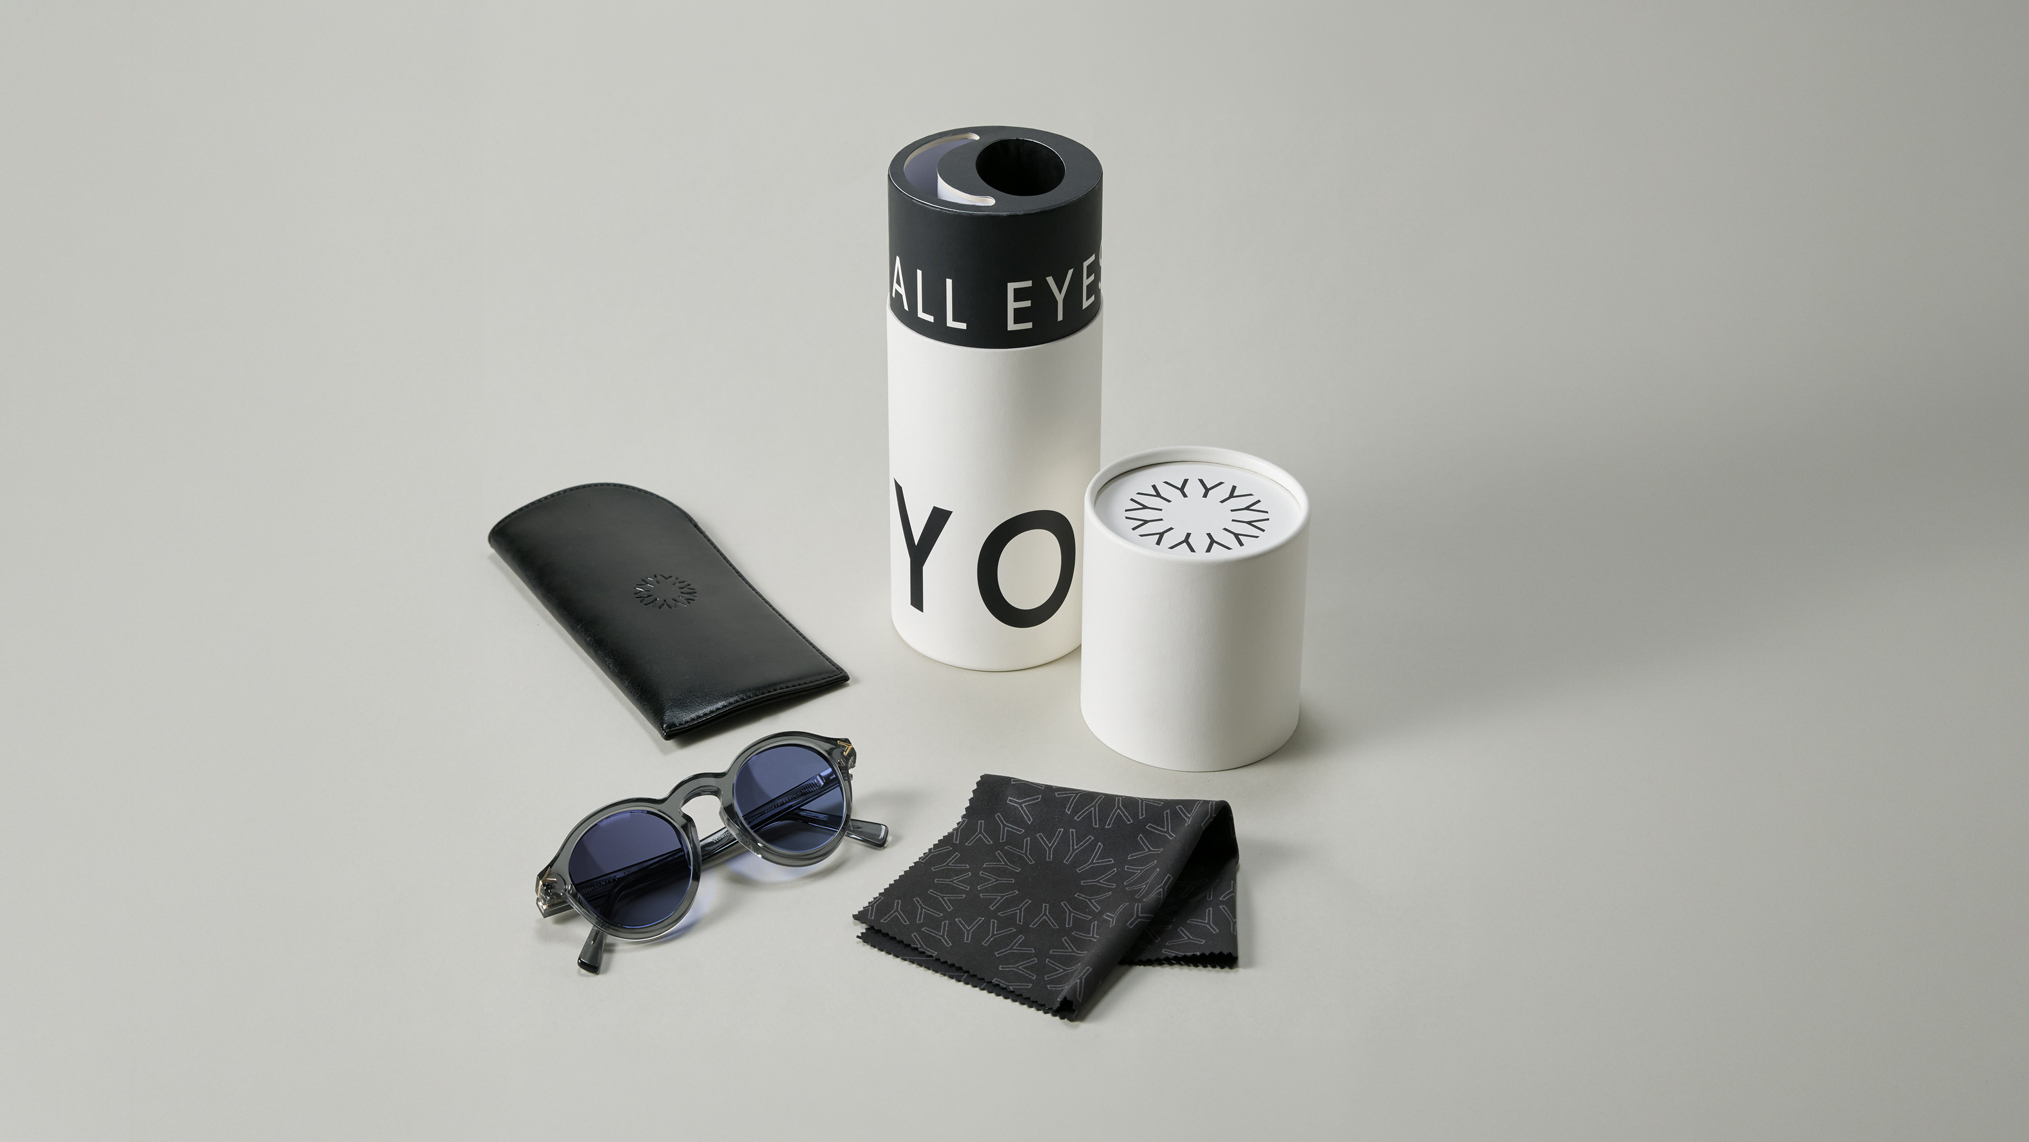
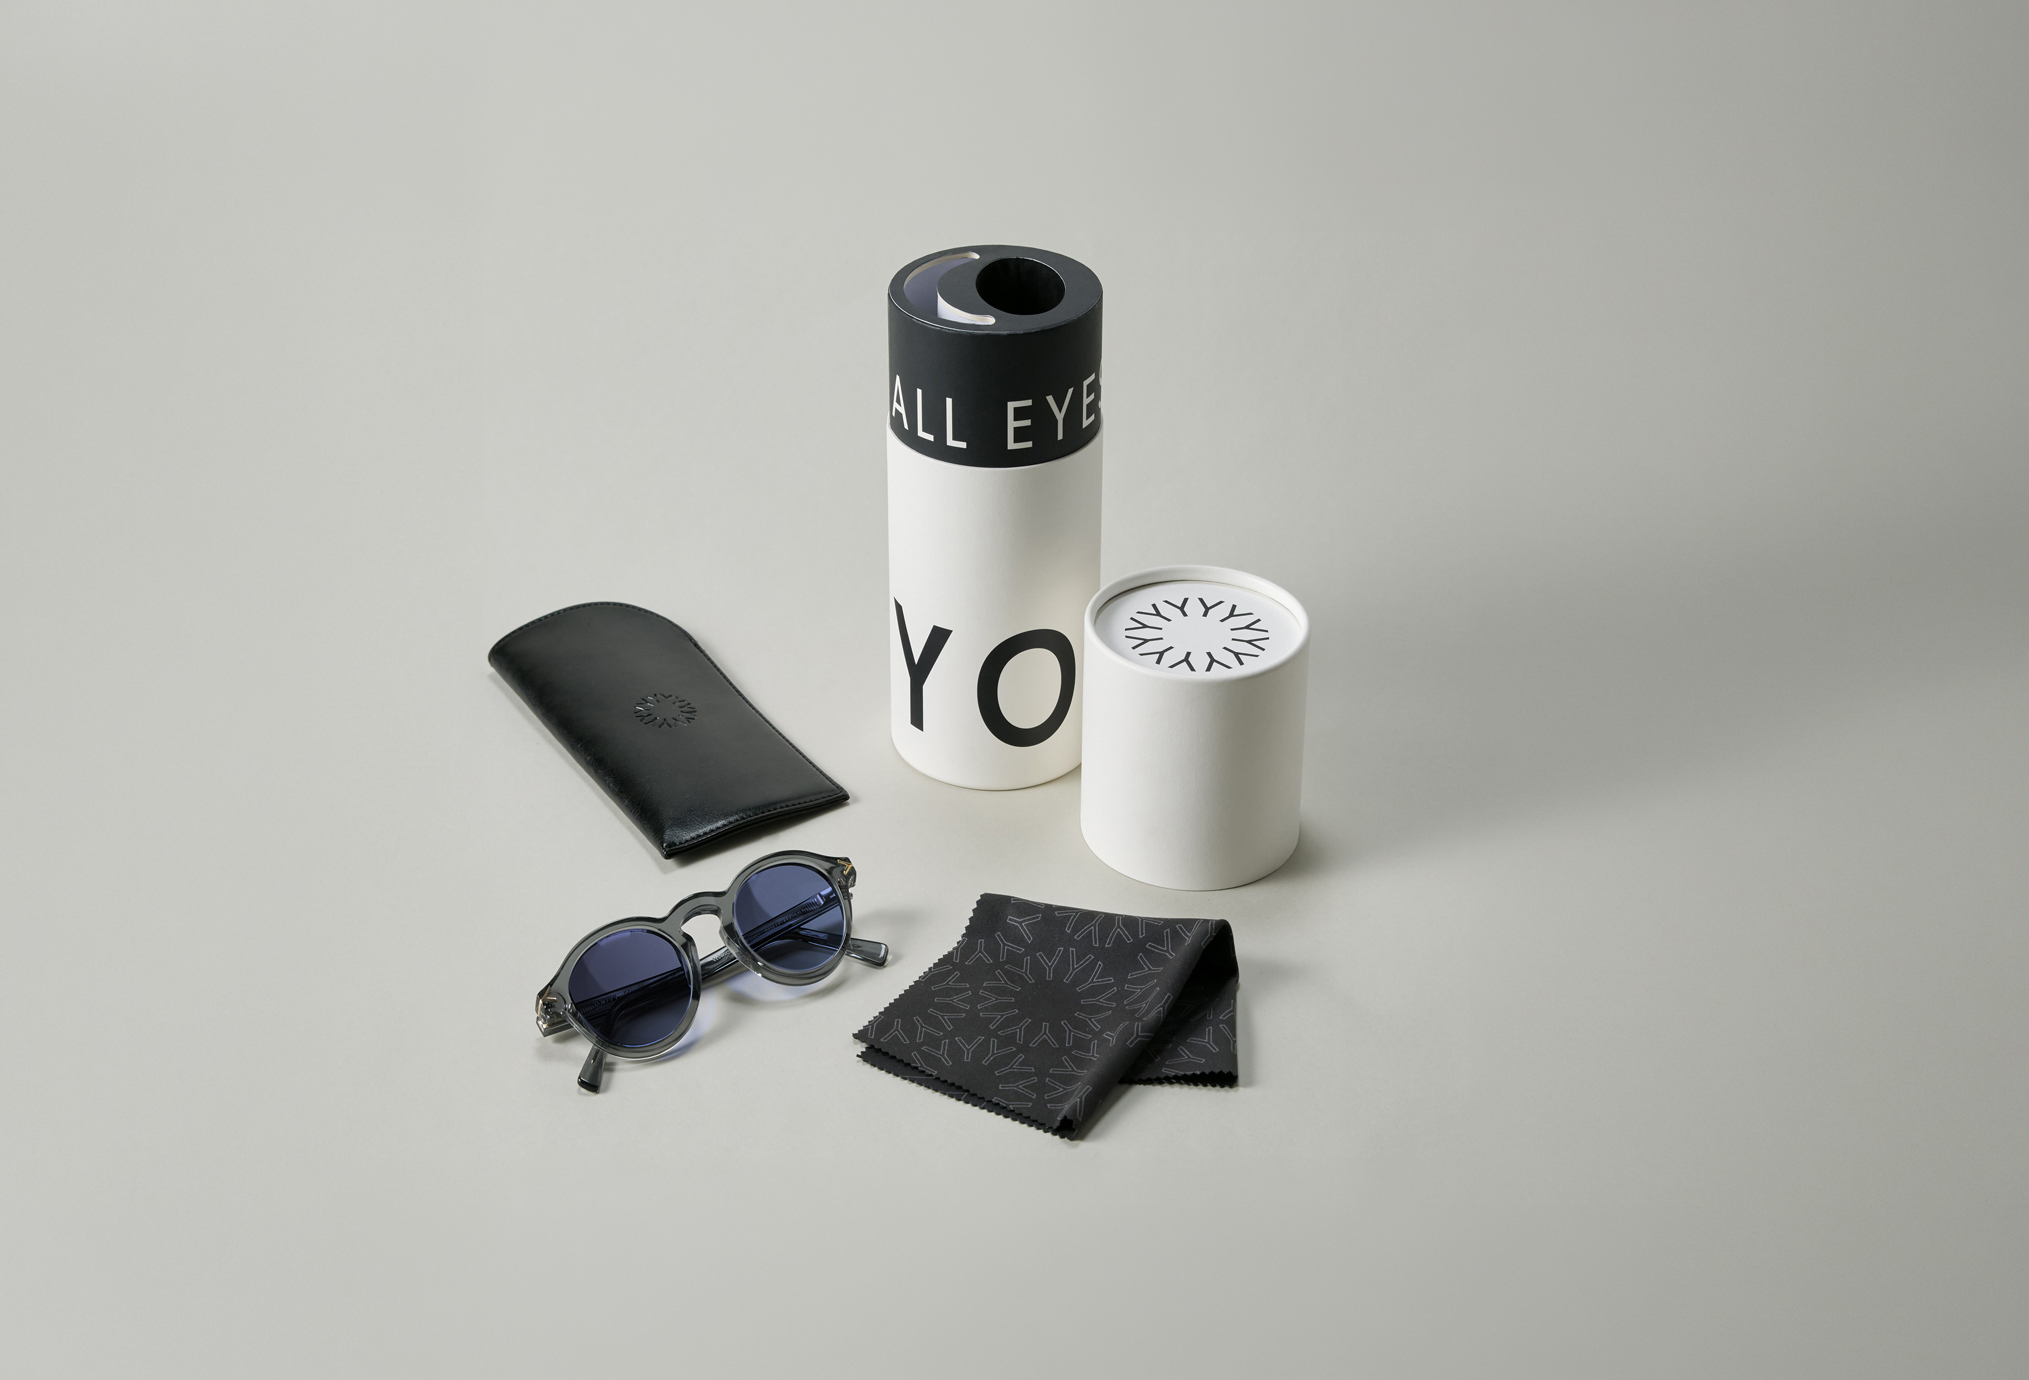
Remove progress bar line + update packaging-2.jpg
- Hide c-ps-bar to remove dark line between process and packaging sections
- packaging-2.jpg updated with Photoshop edit

diff --git a/craftmanship.html b/craftmanship.html
@@ -210,16 +210,7 @@
       letter-spacing: .14em;
       opacity: .35;
     }
-    .c-ps-bar {
-      position: absolute;
-      bottom: 0;
-      left: 0;
-      height: 2px;
-      background: var(--blue);
-      width: 0%;
-      z-index: 20;
-      transition: width .5s var(--ease);
-    }
+    .c-ps-bar { display: none; }
     /* each step panel */
     .c-ps {
       position: absolute;